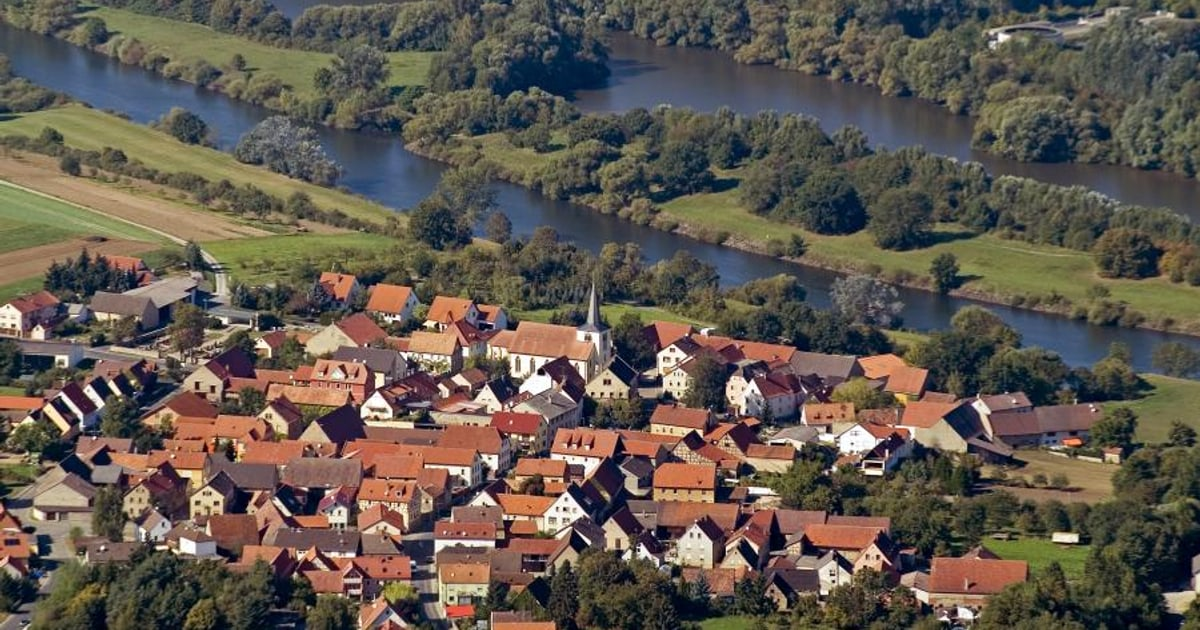
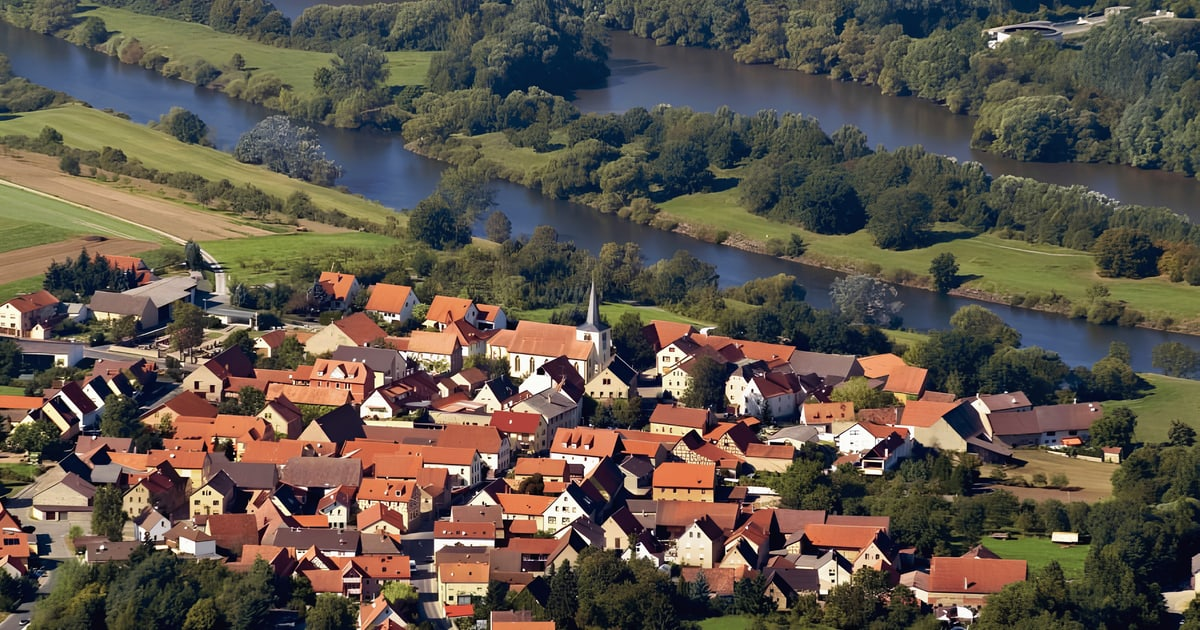
fix(scripts): correct og-image source path to .png
The luftbild source is luftbild-untereuerheim.png, but generate-og-image.ts
pointed at a .jpg that does not exist, so `bun run og` crashed. Point it at
the real file and regenerate og.jpg from it.

diff --git a/scripts/generate-og-image.ts b/scripts/generate-og-image.ts
@@ -6,7 +6,7 @@ const root = resolve(import.meta.dir, "..");
 const publicDir = resolve(root, "public");
 mkdirSync(publicDir, { recursive: true });
 
-const source = resolve(root, "src/assets/images/luftbild-untereuerheim.jpg");
+const source = resolve(root, "src/assets/images/luftbild-untereuerheim.png");
 const out = resolve(publicDir, "og.jpg");
 
 await sharp(source)
